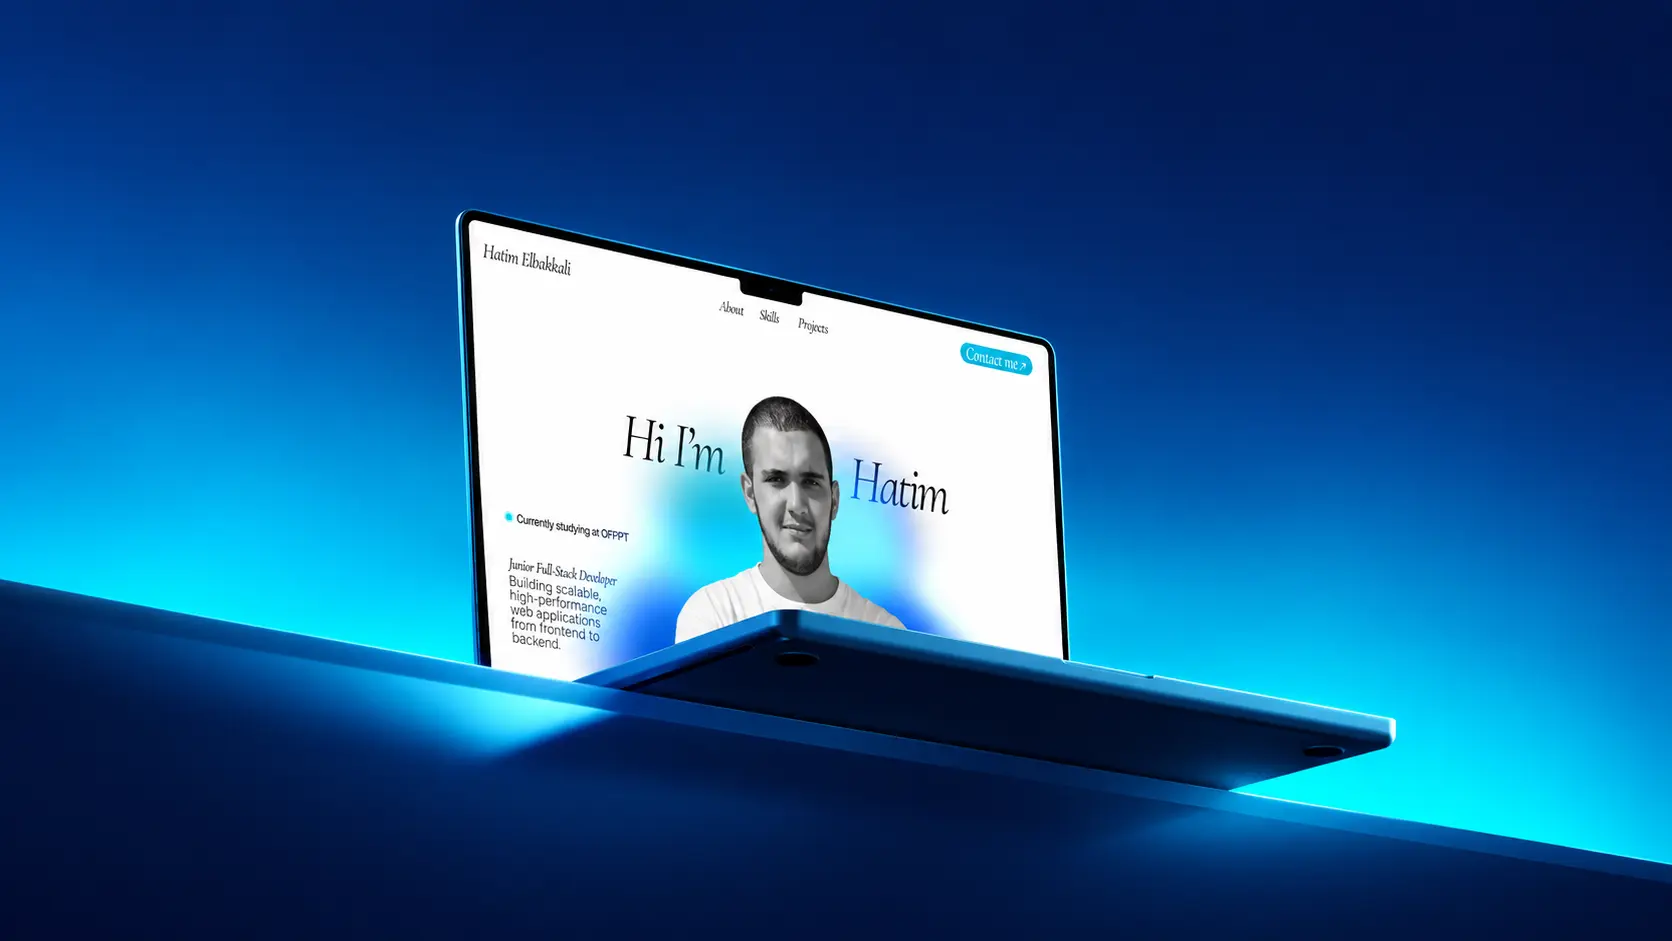
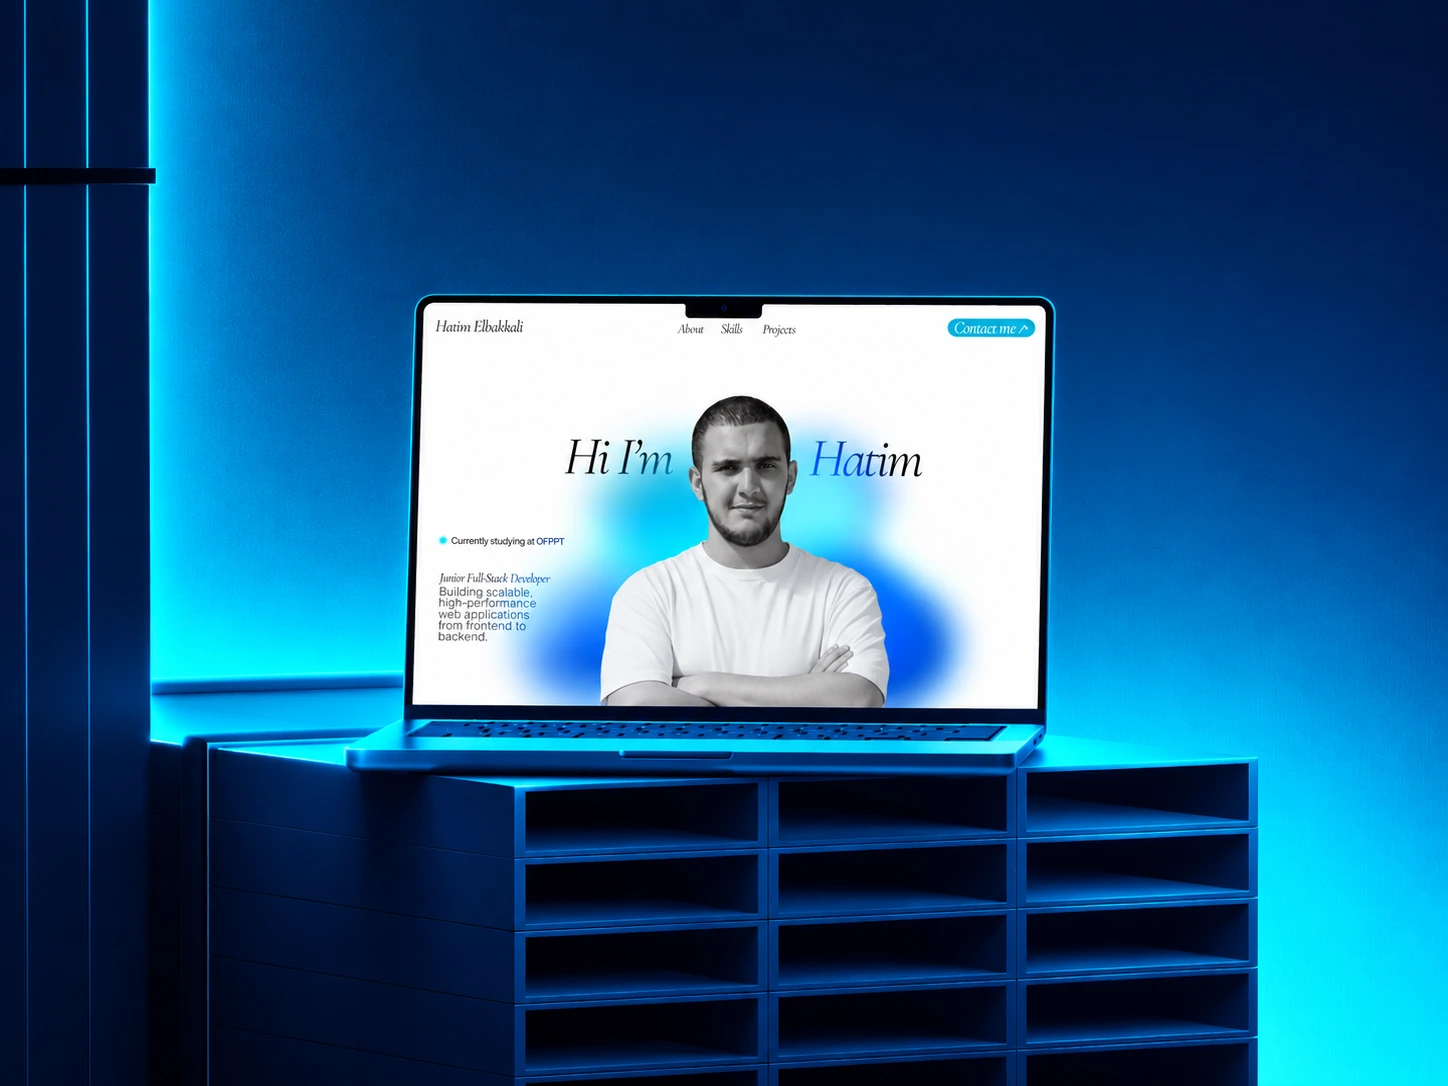
siuiuiu

diff --git a/src/sections/Projects.jsx b/src/sections/Projects.jsx
@@ -8,7 +8,7 @@ import {
   useMotionValue,
 } from "framer-motion";
 import { projects } from "../data/projects";
-import ArrowTopRight from "../assets/icons/ArrowRightTop.svg";
+import ArrowTopRight from "../assets/icons/ui/ArrowRightTop.svg";
 
 const EASE = [0.22, 1, 0.36, 1];
 
@@ -125,7 +125,7 @@ function ProjectCard({ project, reduce }) {
           whileHover="hover"
         >
           <motion.div variants={imageInner}>
-            <motion.div style={{ y: imgY, scale: 1.18 }}>
+            <motion.div style={{ y: imgY, scale: 1 }}>
               <motion.img
                 className="w-full aspect-[5/4] xl:aspect-[7/5.5] object-cover"
                 src={project.image}

diff --git a/src/data/skills.js b/src/data/skills.js
@@ -1,7 +1,7 @@
 
-import phpMailer from "../assets/icons/phpmailer.svg";
-import MVC from "../assets/icons/MVC.svg";
-import MySQL from "../assets/icons/mysql.svg";
+import phpMailer from "../assets/icons/skills/phpmailer.svg";
+import MVC from "../assets/icons/skills/MVC.svg";
+// import MySQL from "../assets/icons/skills/mysql.svg";
 
 export const skills = [
   {
@@ -95,8 +95,8 @@ export const skills = [
       {
         id: "mysql",
         name: "MySQL",
-        icon: MySQL,
-        iconType: "image",
+        icon: "logos:mysql",
+        iconType: "iconify",
       },
     ],
   },

diff --git a/src/sections/Skills.jsx b/src/sections/Skills.jsx
@@ -132,6 +132,13 @@ export default function Skills() {
                   <p className="hidden lg:block font-text font-medium xl:text-xl">
                     {skill.name}
                   </p>
+
+                  {skill.id === "mvc" && (
+                    <p className="block lg:hidden font-text font-medium xl:text-xl">
+                      {skill.name}
+                    </p>
+                  )}
+
                 </motion.div>
               ))}
             </motion.div>

diff --git a/src/components/Navbar.jsx b/src/components/Navbar.jsx
@@ -3,8 +3,8 @@ import { linkNavPC, linkNavMB } from "../data/linkNav";
 import { socialLinks } from "../data/socialLinks";
 // icons
 import { MoveUpRight } from "lucide-react";
-import Bars from "../assets/icons/bars.svg";
-import X from "../assets/icons/X.svg";
+import Bars from "../assets/icons/ui/bars.svg";
+import X from "../assets/icons/ui/X.svg";
 // hooks
 import { useState, useEffect } from "react";
 // animation
